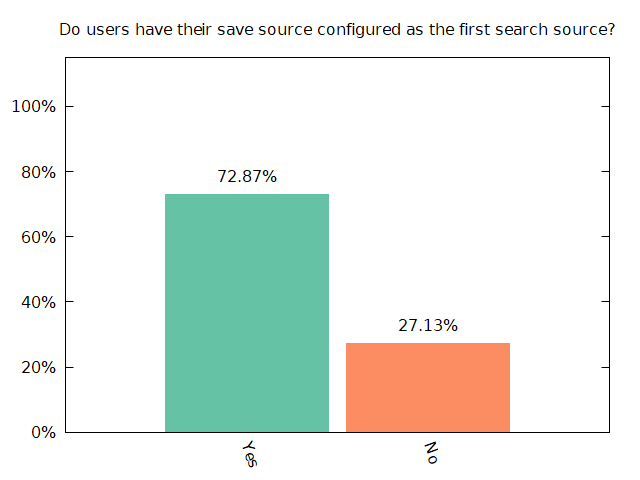
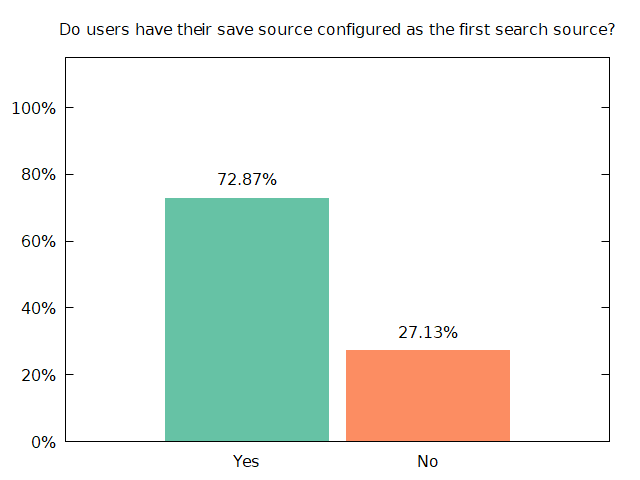
Fix bad image links & xtic rotation on metrics report

diff --git a/metrics/report_2023-07/README.md b/metrics/report_2023-07/README.md
@@ -31,13 +31,13 @@ Not really. This is good for me, it means I can remove that feature (which has r
 
 The intended usage is that users select a save source (local files or metadata tags), always save lyrics retrieved from the internet, and then have that same source configured as the first search source (so that we'll always first check whatever they've saved locally before consulting the internet, thereby avoiding spamming lyric services with many unnecessary requests).
 
-![](out_localfirst.png)
+![](img/out_localfirst.png)
 
 Except that this is not the case for a surprisingly large number of users. I do not understand why. In the long term I plan to enforce this because in addition to reducing traffic on lyric sources, it also significantly reduces the search latency when a new track starts playing (it's obviously much faster to search the local disk than to search the internet...which is just somebody else's "local disk").
 
 While we're at it, which sources are people usually searching anyway?
 
-![](out_sources.png)
+![](img/out_sources.png)
 
 Unsurprisingly the sources that are enabled by default have way more users than those that are not. This is your regularly-scheduled reminder that defaults are important and powerful. To be completely honest, I don't know why we got so many "Unknown" entries in that list, it suggests that there is either a bug or that people have configuration that references a source that does not exist. That's very weird, I'll have to look into it.
 
@@ -45,13 +45,13 @@ Unsurprisingly the sources that are enabled by default have way more users than 
 
 Stats about versions in-use are always interesting, but in this case they're also useful:
 
-![](out_fb2kversions.png)
+![](img/out_fb2kversions.png)
 
 We currently list v1.5 as our minimum supported version, but very few users are actually using foobar2000 v1.5. That means we can bump the required version (and access new, more powerful functionality provided by fb2k in the process) without affecting many users. I was somewhat surprised by the number of users on v2.0 and I would actually expect that number to generally be increasing over time (v2.0 was released shortly after we began collecting metrics) and so it might even be reasonable to bump the required version to v2.0.
  
 The version stats for openlyrics are less useful (since the metrics collection is tied to a version number) but we have it anyway so:
 
-![](out_openlyricsver.png)
+![](img/out_openlyricsver.png)
 
 I think the interesting thing here is the split between x64 and x86 users, with x64 coming out just slightly ahead. Good to know.
 
@@ -59,12 +59,12 @@ I think the interesting thing here is the split between x64 and x86 users, with 
 ## Miscellaneous
 I won't provide any commentary but for completeness the remainder of the graphs I produced are below:
 
-![](out_autosave.png)
-![](out_savedir.png)
-![](out_savesrc.png)
-![](out_portable.png)
-![](out_darkmode.png)
-![](out_dpi.png)
-![](out_scrolltime.png)
-![](out_scrolltype.png)
-![](out_autoedits.png)
+![](img/out_autosave.png)
+![](img/out_savedir.png)
+![](img/out_savesrc.png)
+![](img/out_portable.png)
+![](img/out_darkmode.png)
+![](img/out_dpi.png)
+![](img/out_scrolltime.png)
+![](img/out_scrolltype.png)
+![](img/out_autoedits.png)
